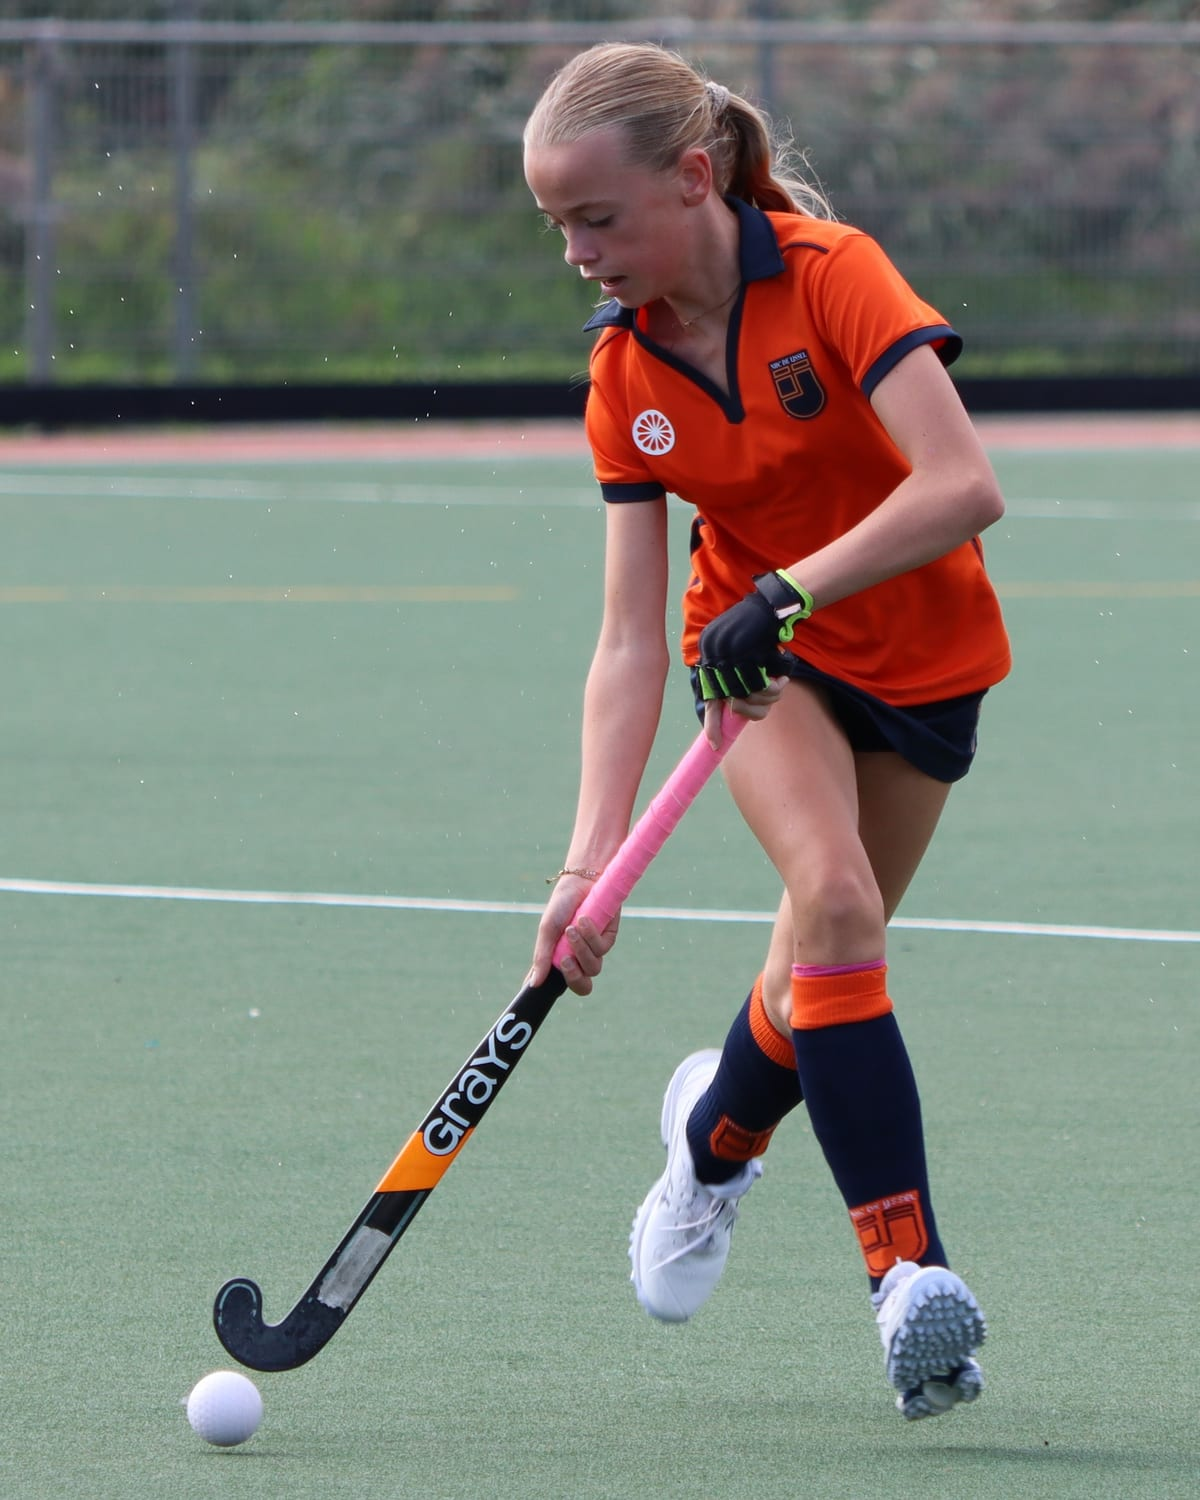
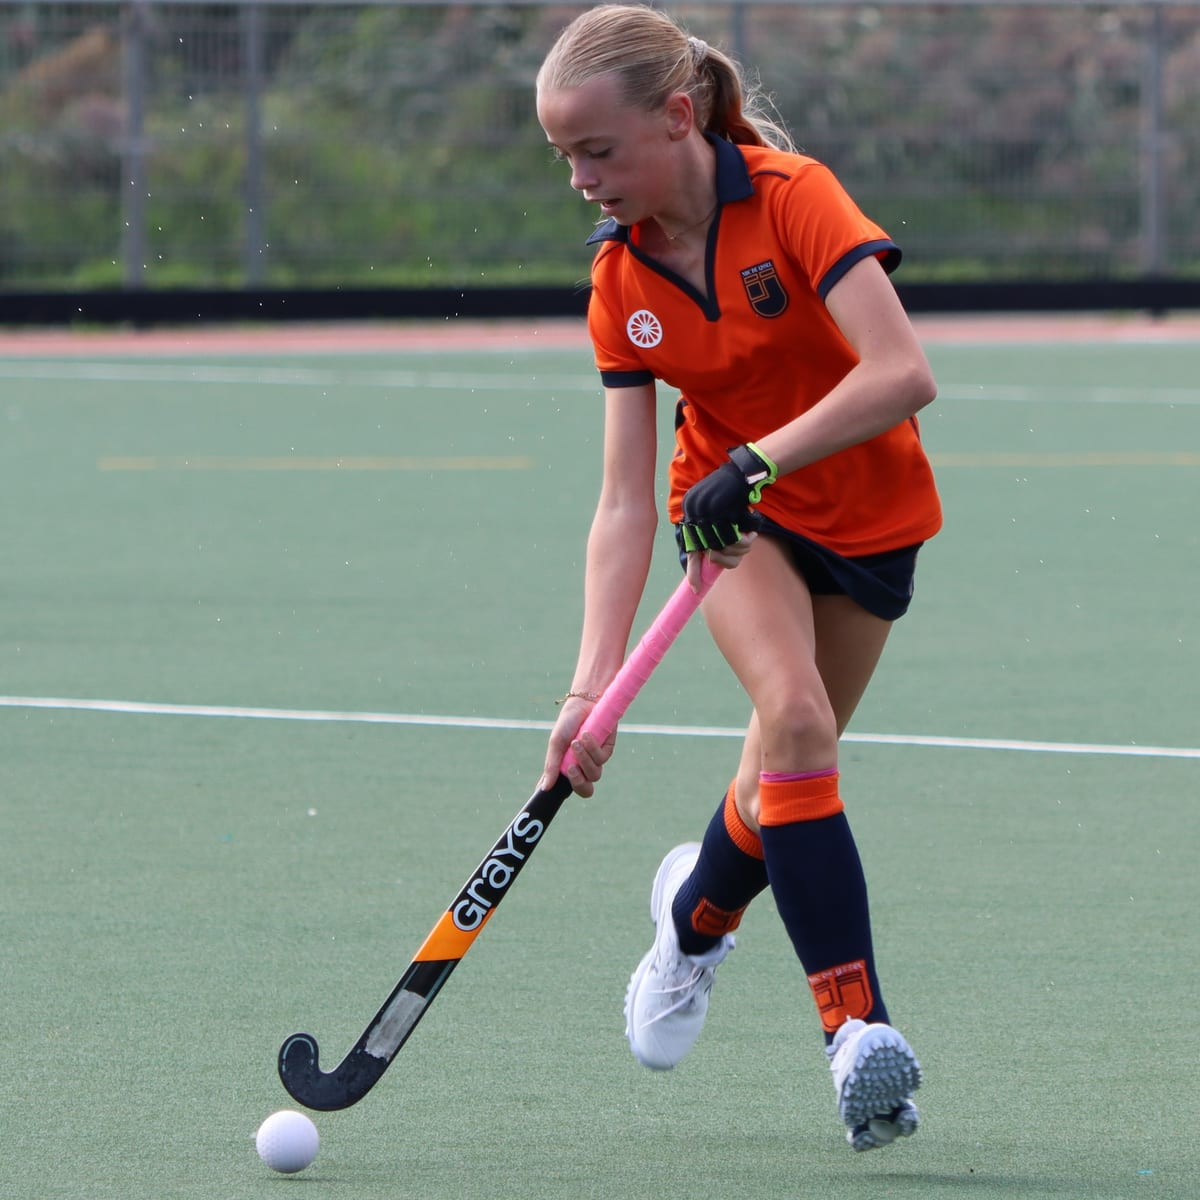
Home: hero carousel with two square photos, pause button, still with reduced motion

diff --git a/src/components/home/HeroPhotos.tsx b/src/components/home/HeroPhotos.tsx
@@ -1,0 +1,114 @@
+'use client';
+
+import { useEffect, useState } from 'react';
+import Image from 'next/image';
+import dribbel from '@/assets/home/hero-speelster.jpg';
+import slag from '@/assets/home/hero-speelster-slag.jpg';
+
+/**
+ * Photos of a youth player (the owner's daughter, published with consent;
+ * metadata stripped), both cropped square so they line up. Cross-fades every
+ * few seconds; a pause button is always there (WCAG 2.2.2), and with
+ * prefers-reduced-motion nothing moves on its own.
+ */
+const PHOTOS = [
+  {
+    src: dribbel,
+    alt: 'Jeugdspeelster dribbelt met de bal op een kunstgrasveld',
+  },
+  {
+    src: slag,
+    alt: 'Jeugdspeelster slaat de bal laag door haar knieën op een kunstgrasveld',
+  },
+];
+
+const INTERVAL_MS = 6000;
+
+export function HeroPhotos() {
+  const [index, setIndex] = useState(0);
+  const [paused, setPaused] = useState(false);
+  const [reducedMotion, setReducedMotion] = useState(false);
+
+  useEffect(() => {
+    const query = window.matchMedia('(prefers-reduced-motion: reduce)');
+    const update = () => setReducedMotion(query.matches);
+    update();
+    query.addEventListener('change', update);
+    return () => query.removeEventListener('change', update);
+  }, []);
+
+  const playing = !paused && !reducedMotion;
+  useEffect(() => {
+    if (!playing) return;
+    const timer = window.setInterval(
+      () => setIndex((i) => (i + 1) % PHOTOS.length),
+      INTERVAL_MS,
+    );
+    return () => window.clearInterval(timer);
+  }, [playing]);
+
+  return (
+    <div
+      role="group"
+      aria-roledescription="carrousel"
+      aria-label="Foto's van een jeugdspeelster"
+      className="relative aspect-square w-full overflow-hidden rounded-3xl shadow-sm"
+    >
+      {PHOTOS.map((photo, i) => (
+        <Image
+          key={photo.alt}
+          src={photo.src}
+          alt={photo.alt}
+          priority={i === 0}
+          placeholder="blur"
+          sizes="(min-width: 768px) 384px, 320px"
+          aria-hidden={i !== index}
+          className={`absolute inset-0 h-full w-full object-cover transition-opacity duration-700 motion-reduce:transition-none ${
+            i === index ? 'opacity-100' : 'opacity-0'
+          }`}
+        />
+      ))}
+
+      <div className="absolute right-2 bottom-2 flex items-center gap-1 rounded-full bg-inkt/60 p-1 backdrop-blur-sm">
+        {PHOTOS.map((photo, i) => (
+          <button
+            key={photo.alt}
+            type="button"
+            onClick={() => setIndex(i)}
+            aria-label={`Foto ${i + 1} van ${PHOTOS.length} tonen`}
+            aria-current={i === index}
+            className="flex h-11 w-7 items-center justify-center"
+          >
+            <span
+              className={`block h-2.5 w-2.5 rounded-full ${
+                i === index ? 'bg-white' : 'bg-white/50'
+              }`}
+            />
+          </button>
+        ))}
+        {!reducedMotion && (
+          <button
+            type="button"
+            onClick={() => setPaused((p) => !p)}
+            aria-label={paused ? 'Foto’s laten wisselen' : 'Foto’s pauzeren'}
+            className="flex h-11 w-11 items-center justify-center text-white"
+          >
+            <svg
+              width="18"
+              height="18"
+              viewBox="0 0 24 24"
+              fill="currentColor"
+              aria-hidden="true"
+            >
+              {paused ? (
+                <path d="M8 5v14l11-7z" />
+              ) : (
+                <path d="M7 5h4v14H7zM13 5h4v14h-4z" />
+              )}
+            </svg>
+          </button>
+        )}
+      </div>
+    </div>
+  );
+}

diff --git a/src/components/home/Hero.tsx b/src/components/home/Hero.tsx
@@ -1,6 +1,5 @@
-import Image from 'next/image';
 import { Logo } from '@/components/brand/Logo';
-import heroPhoto from '@/assets/home/hero-speelster.jpg';
+import { HeroPhotos } from './HeroPhotos';
 import { ButtonLink } from '@/components/ui/Button';
 import { CheckIcon } from '@/components/ui/icons';
 import { SCREENS } from '@/content/stickwijzer/questions';
@@ -16,25 +15,16 @@ const EXAMPLE_REASONS = [
 ];
 
 /**
- * A youth player on the pitch (the owner's daughter, published with
- * consent; metadata stripped), with the kind of reasons a result shows;
- * no brand badge (owner's choice). Illustrative only — no product,
- * size or price.
+ * Photos of a youth player (see HeroPhotos) with the kind of reasons a
+ * result shows. Illustrative only — no product, size or price.
  */
 function HeroVisual() {
   return (
     <div className="relative mx-auto w-full max-w-xs sm:max-w-sm">
-      <Image
-        src={heroPhoto}
-        alt="Jeugdspeelster dribbelt met de bal op een kunstgrasveld"
-        priority
-        placeholder="blur"
-        sizes="(min-width: 768px) 384px, 320px"
-        className="aspect-[4/5] w-full rounded-3xl object-cover shadow-sm"
-      />
+      <HeroPhotos />
       <ul
         aria-hidden="true"
-        className="absolute bottom-8 -left-3 space-y-2 sm:top-4 sm:bottom-auto sm:-left-8 lg:-left-16"
+        className="mt-3 flex flex-wrap gap-2 sm:absolute sm:top-4 sm:-left-8 sm:mt-0 sm:block sm:space-y-2 lg:-left-16"
       >
         {EXAMPLE_REASONS.map((reason) => (
           <li
